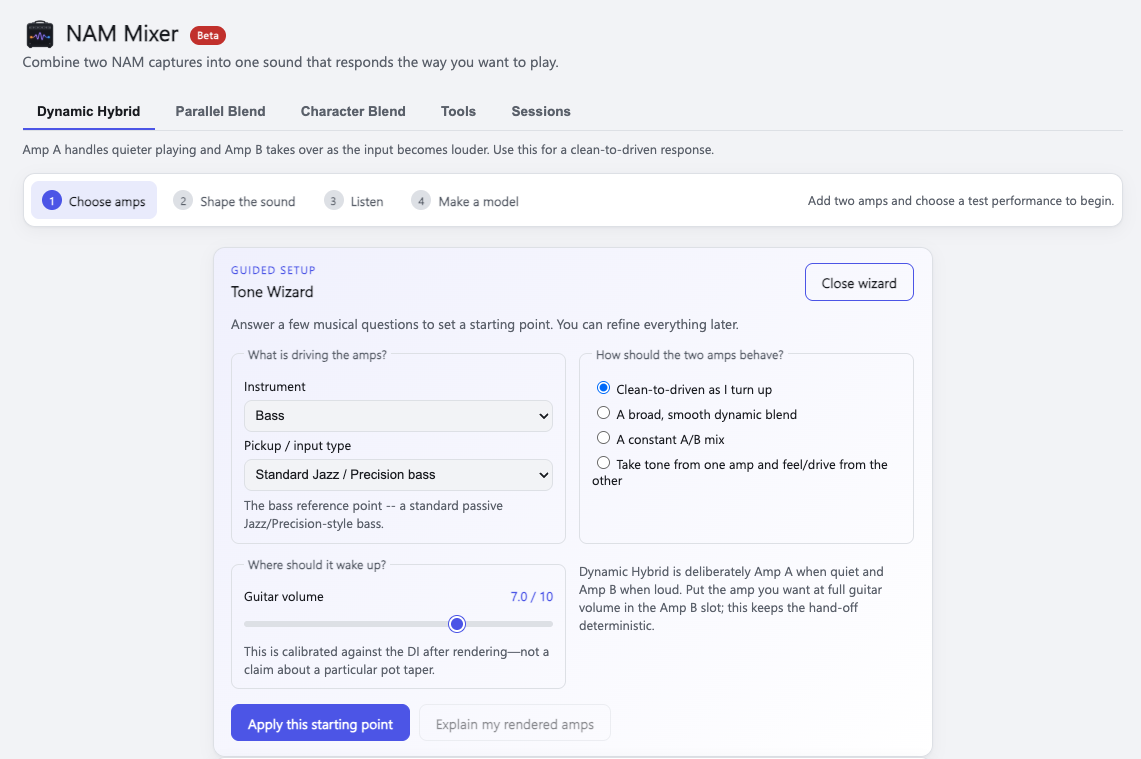
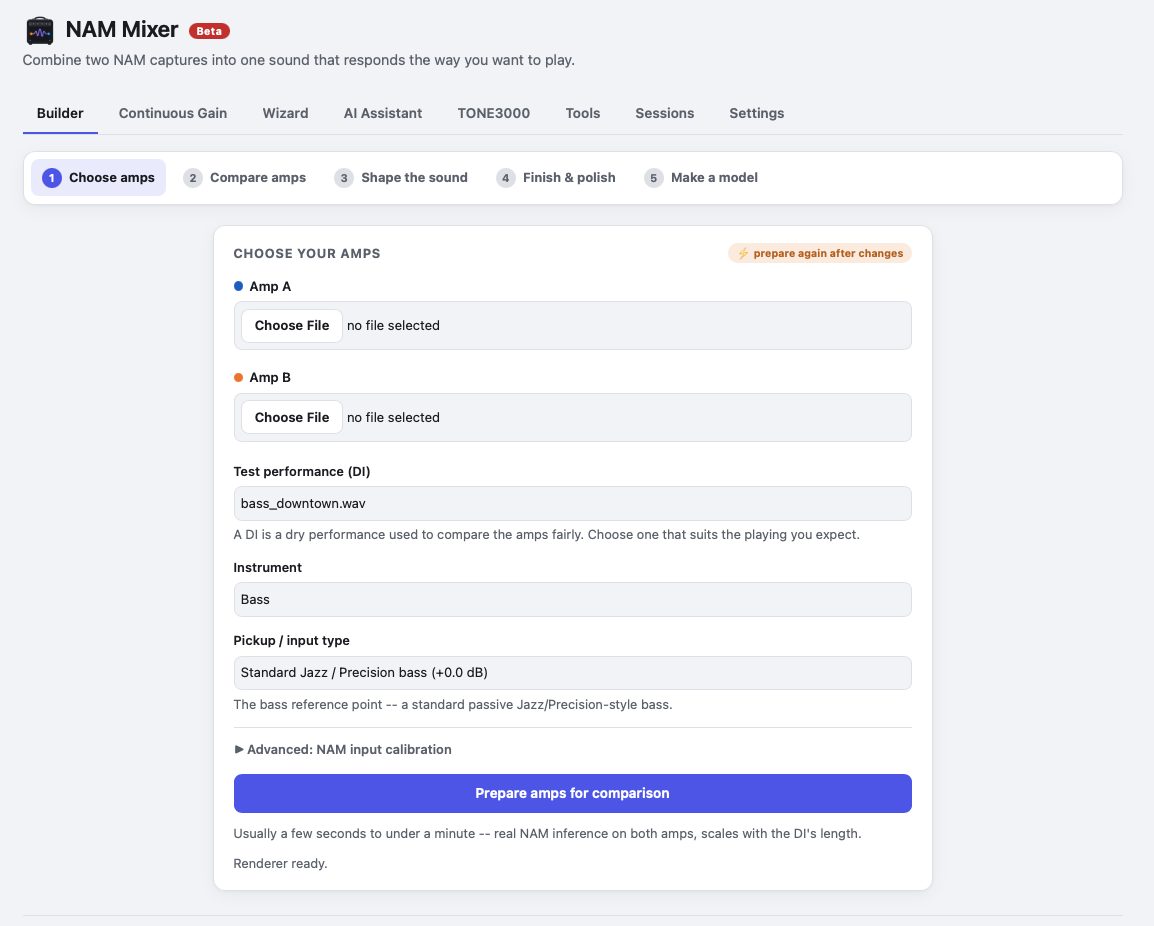
Builder modes: plain language first, technical detail under "Advanced"
Reviewed Dynamic Hybrid, Always mixed and Combined character end to end with
a real rendered pair.

- Hidden where they do nothing: the "Keep the level steady" card in
  Combined character (that mode ignores level match and trim), and the live
  mix button outside Always mixed. "Live blend stopped" messages only appear
  when a live mix was playing or loading.
- Plain readouts: "Amp B is turned down 9.6 dB to match Amp A" instead of
  auto/effective trim; the crossover knob explained as softest-to-hardest
  playing (dBFS in brackets as Advanced); "Drive: moves from X% to Y% Amp B
  as you play harder" instead of "donor trajectory"; "Both amps can be heard
  in this mix".
- Quiet-playing check leads with a verdict ("Quiet playing works" / "The
  sound drops out when you play softly…"); the level table moves under
  Advanced: measurements.
- Labelled Advanced sections: timing between the amps (opens itself when a
  correction is offered or a saved one needs explaining), fine-tuning Amp B's
  level, changing the drive as you play harder (switch first, then soft /
  medium / hard), training input (opens itself if the input is missing),
  and the Parallel technical evidence.
- Make a model: "Make your <mode> model"; the non-existent "High definition"
  preset is now "Maximum detail".
- The player's heading no longer repeats.
- Fix during review: applyModeVisibility runs at startup before
  liveBlendButton is declared; it now looks the button up by id, and a test
[…]

diff --git a/templates/index.html b/templates/index.html
@@ -422,16 +422,19 @@
           <input type="range" id="crossover-slider" min="-40" max="0" step="0.5" value="-22" class="slider slider-crossover">
           <div id="suggested-crossover-note" class="info"></div>
         </details>
-        <div class="timing-readout" aria-live="polite" hidden>
-          <div class="timing-readout-summary"></div>
-          <div class="timing-readout-note" hidden></div>
-          <div class="preset-row timing-choice" role="group" aria-label="Amp B timing" hidden>
-            <button type="button" class="preset-btn" data-timing="original" aria-pressed="true">Original</button>
-            <button type="button" class="preset-btn" data-timing="corrected" aria-pressed="false">Corrected</button>
+        <details class="advanced timing-advanced">
+          <summary>Advanced: timing between the amps</summary>
+          <div class="timing-readout" aria-live="polite" hidden>
+            <div class="timing-readout-summary"></div>
+            <div class="timing-readout-note" hidden></div>
+            <div class="preset-row timing-choice" role="group" aria-label="Amp B timing" hidden>
+              <button type="button" class="preset-btn" data-timing="original" aria-pressed="true">Original</button>
+              <button type="button" class="preset-btn" data-timing="corrected" aria-pressed="false">Corrected</button>
+            </div>
+            <div class="timing-choice-hint" hidden></div>
+            <details class="advanced timing-readout-details"><summary>Measurements</summary><div class="info timing-readout-body"></div></details>
           </div>
-          <div class="timing-choice-hint" hidden></div>
-          <details class="advanced timing-readout-details"><summary>Timing evidence</summary><div class="info timing-readout-body"></div></details>
-        </div>
+        </details>
       </section>
 
       <section class="card workflow-stage workflow-shape" id="blend-panel-mix" data-mode-panel="blend" hidden>
@@ -496,7 +499,7 @@
           </div>
 
           <details class="advanced parallel-evidence">
-            <summary>Technical evidence</summary>
+            <summary>Advanced: technical evidence</summary>
             <div id="parallel-compatibility-details" class="info"></div>
             <div class="parallel-fixed-latency-label">Fixed latency</div>
             <div class="timing-readout" aria-live="polite" hidden>
@@ -523,11 +526,11 @@
         <div class="slider-row"><label for="drive-slider">Drive: Amp A / Amp B</label><span id="drive-value" class="value-chip">50% B</span></div>
         <input type="range" id="drive-slider" min="0" max="100" step="1" value="50" class="slider slider-mix">
         <div class="hint">For a clear result, favour one amp for each control. At 50% Drive, Amp B supplies the driven response.</div>
-        <details class="advanced"><summary>Advanced: drive morph by input level</summary>
-          <div class="slider-row"><label for="drive-low-slider">Low input</label><span id="drive-low-value" class="value-chip">20% B</span></div><input type="range" id="drive-low-slider" min="0" max="100" step="1" value="20" class="slider slider-mix">
-          <div class="slider-row"><label for="drive-mid-slider">Mid input</label><span id="drive-mid-value" class="value-chip">50% B</span></div><input type="range" id="drive-mid-slider" min="0" max="100" step="1" value="50" class="slider slider-mix">
-          <div class="slider-row"><label for="drive-high-slider">High input</label><span id="drive-high-value" class="value-chip">80% B</span></div><input type="range" id="drive-high-slider" min="0" max="100" step="1" value="80" class="slider slider-mix">
-          <label class="checkbox-row"><input type="checkbox" id="drive-morph-enabled"> Drive morph by input level</label>
+        <details class="advanced"><summary>Advanced: change the drive as you play harder</summary>
+          <label class="checkbox-row"><input type="checkbox" id="drive-morph-enabled"> Use different drive amounts for soft, medium and hard playing</label>
+          <div class="slider-row"><label for="drive-low-slider">Soft playing</label><span id="drive-low-value" class="value-chip">20% B</span></div><input type="range" id="drive-low-slider" min="0" max="100" step="1" value="20" class="slider slider-mix">
+          <div class="slider-row"><label for="drive-mid-slider">Medium playing</label><span id="drive-mid-value" class="value-chip">50% B</span></div><input type="range" id="drive-mid-slider" min="0" max="100" step="1" value="50" class="slider slider-mix">
+          <div class="slider-row"><label for="drive-high-slider">Hard playing</label><span id="drive-high-value" class="value-chip">80% B</span></div><input type="range" id="drive-high-slider" min="0" max="100" step="1" value="80" class="slider slider-mix">
         </details>
         <div id="character-readout" class="trim-readout" aria-live="polite">Tone, feel, and drive analyses run from the rendered pair.</div>
 
@@ -538,7 +541,7 @@
         <div id="character-low-level-result" class="generate-result" hidden aria-live="polite"></div>
       </section>
 
-      <section class="card workflow-stage workflow-shape">
+      <section class="card workflow-stage workflow-shape" id="level-match-card">
         <h2>Keep the level steady <span class="cost-badge cost-badge-instant" title="Uses the prepared amps; no new NAM rendering">✓ instant</span></h2>
 
         <label class="checkbox-row">
@@ -546,14 +549,17 @@
           <span id="auto-level-match-label">Keep Amp B as loud as Amp A at the changeover</span>
         </label>
 
-        <div class="slider-row">
-          <label for="amp-b-trim">Amp B gain trim</label>
-          <span id="amp-b-trim-value" class="value-chip">+0.0 dB</span>
-        </div>
-        <input type="range" id="amp-b-trim" min="-24" max="24" step="0.1" value="0" class="slider slider-trim">
-        <div class="info">Added on top of the auto match -- 0&nbsp;dB means use the auto match as-is.</div>
-
         <div id="trim-readout" class="trim-readout" aria-live="polite"></div>
+
+        <details class="advanced">
+          <summary>Advanced: fine-tune Amp B's level</summary>
+          <div class="slider-row">
+            <label for="amp-b-trim">Extra Amp B level</label>
+            <span id="amp-b-trim-value" class="value-chip">+0.0 dB</span>
+          </div>
+          <input type="range" id="amp-b-trim" min="-24" max="24" step="0.1" value="0" class="slider slider-trim">
+          <div class="info">Added on top of the automatic match. 0&nbsp;dB keeps the automatic match as it is.</div>
+        </details>
       </section>
 
     </aside>
@@ -563,7 +569,7 @@
       <div class="group-label workflow-stage workflow-compare">Compare your amp choices</div>
 
       <section class="card audition-card workflow-stage workflow-compare workflow-shape">
-        <div class="audition-heading"><div><div class="eyebrow compare-only">Start here</div><div class="eyebrow shape-only">Compare the sound</div><h2><span class="compare-only">Hear your two amps</span><span class="shape-only">Compare the sound</span></h2></div><span id="audition-mode" class="audition-mode">Dynamic Hybrid</span></div>
+        <div class="audition-heading"><div><div class="eyebrow compare-only">Start here</div><h2><span class="compare-only">Hear your two amps</span><span class="shape-only">Compare the sound</span></h2></div><span id="audition-mode" class="audition-mode">Dynamic Hybrid</span></div>
         <p class="audition-intro compare-only">Listen to each amp on the same performance before deciding how they should combine.</p>
         <p id="audition-intro-shape" class="audition-intro shape-only">Adjust the controls below, then compare Amp A, your result, and Amp B at the same level.</p>
         <div class="preview-row">
@@ -694,16 +700,19 @@
       <div class="group-label workflow-stage workflow-create">Create a training target</div>
 
       <section class="card workflow-stage workflow-create">
-        <h2><span id="create-a2-title">Make a Hybrid A2</span></h2>
+        <h2><span id="create-a2-title">Make your Dynamic Hybrid model</span></h2>
         <div class="info" id="create-a2-description">
           Turn the sound you chose into training audio for a single NAM model.
         </div>
 
-        <label class="field-label" for="training-input-file">Official NAM training input (48&nbsp;kHz mono WAV)</label>
-        <div id="training-input-default-note" class="info" hidden>The official NAM v3.0.0 training input is bundled with this app and already loaded below -- you don't need to upload anything to continue.</div>
-        <input type="file" id="training-input-file" accept=".wav" class="file-input">
         <div id="training-input-status" class="info" aria-live="polite">Checking...</div>
-        <div class="warning-box">Replacing it with your own reamp/training sweep is only usable if it is byte-identical to the official NAM v3.0.0 input file -- any other file (including a similar-looking custom sweep) will be rejected, since the crossover timing and A2 receptive-field checks in this pipeline are only validated against that exact excitation signal.</div>
+        <details class="advanced" id="training-input-advanced">
+          <summary>Advanced: training input</summary>
+          <div id="training-input-default-note" class="info" hidden>The official NAM v3.0.0 training input is bundled with this app and already loaded. You don't need to upload anything.</div>
+          <label class="field-label" for="training-input-file">Official NAM training input (48&nbsp;kHz mono WAV)</label>
+          <input type="file" id="training-input-file" accept=".wav" class="file-input">
+          <div class="warning-box">Only an exact copy of the official NAM v3.0.0 input file is accepted. Any other file, even a similar-looking sweep, is rejected, because the timing and receptive-field checks are validated against that exact signal.</div>
+        </details>
 
         <label class="field-label" for="model-name">Model name</label>
         <input type="text" id="model-name" class="file-input" maxlength="100" placeholder="e.g. Mesa Mark V Clean + JCM800 Crunch" autocomplete="off">

diff --git a/static/app.js b/static/app.js
@@ -248,15 +248,31 @@ const BLEND_A2_DESCRIPTION =
   "Your pickup choice shapes preview only; it is not baked into the training input.";
 const CHARACTER_A2_DESCRIPTION =
   "Uses the current tone, feel, and drive choices to make a training target from the official NAM input. " +
-  "Character Blend usually benefits from High definition training.";
+  "Character Blend usually benefits from Maximum detail training.";
+
+// Plain-language summary of the Amp B level change (the dB breakdown lives under Advanced).
+function trimReadoutText(autoDb, effectiveDb) {
+  const auto = Number(autoDb) || 0;
+  const effective = Number(effectiveDb) || 0;
+  const manual = effective - auto;
+  const direction = Math.abs(effective) < 0.05 ? "Amp B's level is unchanged"
+    : `Amp B is turned ${effective < 0 ? "down" : "up"} ${Math.abs(effective).toFixed(1)} dB`;
+  if (Math.abs(manual) < 0.05) return `${direction} to match Amp A.`;
+  return `${direction} (automatic ${fmtSigned(auto)} dB, plus your ${fmtSigned(manual)} dB).`;
+}
 
 function applyModeVisibility() {
   modePanels.forEach((el) => {
     el.hidden = el.dataset.modePanel !== currentMode;
   });
+  // Character Blend has no level match or Amp B trim (its donor path is level-matched internally).
+  document.getElementById("level-match-card").hidden = currentMode === "character";
+  // Live mix adjustment only exists for Always mixed. (By id: this also runs at startup, before
+  // liveBlendButton's const is declared further down.)
+  document.getElementById("btn-live-blend").hidden = currentMode !== "blend";
   btnPreviewMix.textContent = currentMode === "blend" ? "Parallel mix" : currentMode === "character" ? "Character" : "Hybrid";
   autoLevelMatchLabel.textContent = currentMode === "blend" ? BLEND_LEVEL_MATCH_LABEL : HYBRID_LEVEL_MATCH_LABEL;
-  createA2Title.textContent = currentMode === "blend" ? "Make a Blend A2" : currentMode === "character" ? "Make a Character A2" : "Make a Hybrid A2";
+  createA2Title.textContent = currentMode === "blend" ? "Make your Always mixed model" : currentMode === "character" ? "Make your Combined character model" : "Make your Dynamic Hybrid model";
   createA2Description.textContent = currentMode === "blend" ? BLEND_A2_DESCRIPTION : currentMode === "character" ? CHARACTER_A2_DESCRIPTION : HYBRID_A2_DESCRIPTION;
   const auditionMode = document.getElementById("audition-mode");
   auditionMode.textContent = currentMode === "blend" ? "Always mixed" : currentMode === "character" ? "Combine tone and feel" : "Changes as you play harder";
@@ -716,6 +732,9 @@ function renderTimingReadout(render) {
     el.dataset.status = timingChoice.available ? "fixed_offset" : diagnostic.status;
     el.querySelector(".timing-readout-summary").textContent = timingSummary(render);
     el.querySelector(".timing-choice").hidden = !timingChoice.available;
+    if (timingChoice.available || note) {
+      for (let d = el.closest?.("details"); d; d = d.parentElement?.closest("details")) d.open = true;
+    }
     const hintEl = el.querySelector(".timing-choice-hint");
     hintEl.hidden = !timingChoice.available;
     hintEl.textContent = timingChoice.available ? timingChoiceHint(timingChoice.offsetSamples) : "";
@@ -966,8 +985,8 @@ function updateCrossoverKnobCalibration(blendEnvelopePercentiles) {
   }
   crossoverKnobCalibration = { minDb: p10, maxDb: p90, calibrated: true };
   crossoverKnobNote.textContent =
-    `Calibrated from this performance: 0 is about ${p10.toFixed(1)} dBFS (quiet), ` +
-    `10 is about ${p90.toFixed(1)} dBFS (loud). This is a useful playing guide, not a simulation of a particular guitar's volume pot.`;
+    "0 is the softest playing in this test performance and 10 the hardest. " +
+    `It's a playing guide, not a guitar volume knob. (Advanced: ${p10.toFixed(1)} to ${p90.toFixed(1)} dBFS.)`;
   syncCrossoverKnobFromDb();
 }
 
@@ -1993,6 +2012,7 @@ function scheduleAuditionRefresh(source = lastPreviewSource) {
 const liveAudition = {
   active: false,
   requestId: 0,
+  loadingRequest: null,   // requestId of stems still loading, so invalidation can say it stopped them
   context: null,
   sourceA: null,
   sourceB: null,
@@ -2061,7 +2081,7 @@ const liveAudition = {
 
 function updateLiveAuditionButton() {
   if (liveAudition.active) liveBlendButton.textContent = "Stop live mix adjustment";
-  else liveBlendButton.textContent = currentMode === "blend" ? "Adjust the mix while listening" : "Live mix: Always-on mix only";
+  else liveBlendButton.textContent = "Adjust the mix while listening";   // only shown in Always mixed
 }
 
 function splitStereoBuffer(context, decoded, channel) {
@@ -2071,8 +2091,10 @@ function splitStereoBuffer(context, decoded, channel) {
 }
 
 function invalidateLiveAudition(message) {
+  // Only report a stop when a live mix was playing or loading; otherwise the message is noise.
+  const wasBusy = liveAudition.active || liveAudition.loadingRequest === liveAudition.requestId;
   liveAudition.stop();
-  liveBlendStatus.textContent = message;
+  if (wasBusy) liveBlendStatus.textContent = message;
 }
 
 async function startLiveBlend() {
@@ -2088,6 +2110,7 @@ async function startLiveBlend() {
   }
   liveBlendButton.disabled = true;
   const requestId = ++liveAudition.requestId;
+  liveAudition.loadingRequest = requestId;
   liveBlendStatus.textContent = "Loading the prepared amps...";
   try {
     const resp = await fetch("/api/live_blend_stems", {
@@ -2143,6 +2166,7 @@ async function startLiveBlend() {
     liveAudition.stop();
     liveBlendStatus.textContent = "Live blend unavailable: " + err.message;
   } finally {
+    if (liveAudition.loadingRequest === requestId) liveAudition.loadingRequest = null;
     if (requestId === liveAudition.requestId) liveBlendButton.disabled = !havePair;
   }
 }
@@ -2184,12 +2208,14 @@ function renderLowLevelResponseHtml(check) {
     .map((lv, i) => `<tr><td>${fmtSigned(lv)} dB</td><td>${check.output_rms_dbfs[i].toFixed(1)} dBFS</td></tr>`)
     .join("");
   const verdict = check.ok
-    ? `<div class="ok-line">&#10003; continuous low-level response, no dead zone</div>`
-    : `<div class="warning-box">&#10007; low-level collapse detected (max step error ${check.max_step_error_db.toFixed(1)} dB). Do not train this design: it would bake silence at quiet playing into the model. Change the Drive settings or the amps and check again.</div>`;
+    ? `<div class="ok-line">&#10003; Quiet playing works: the sound stays responsive when you play softly.</div>`
+    : `<div class="warning-box">&#10007; The sound drops out when you play softly. Don't train this design yet: the model would learn that silence. Change the Drive settings or the amps, then check again.</div>`;
   return `
-    <div><strong>LOW-LEVEL RESPONSE</strong></div>
-    <table class="coverage-table"><tbody>${rows}</tbody></table>
     ${verdict}
+    <details class="advanced"><summary>Advanced: measurements</summary>
+      <table class="coverage-table"><thead><tr><th>Input level</th><th>Output level</th></tr></thead><tbody>${rows}</tbody></table>
+      <div class="info">Largest jump between steps: ${check.max_step_error_db.toFixed(1)} dB.</div>
+    </details>
   `;
 }
 
@@ -2289,10 +2315,13 @@ async function updateTrimReadout() {
       return;
     }
     if (data.mode === "character") {
-      document.getElementById("character-readout").textContent =
-        `Drive donor trajectory: ${Math.round(data.drive_weight_b_min * 100)}–${Math.round(data.drive_weight_b_max * 100)}% Amp B.`;
+      const lo = Math.round(data.drive_weight_b_min * 100);
+      const hi = Math.round(data.drive_weight_b_max * 100);
+      document.getElementById("character-readout").textContent = lo === hi
+        ? `Drive: ${lo}% from Amp B.`
+        : `Drive: moves from ${lo}% to ${hi}% Amp B as you play harder.`;
     } else {
-      trimReadout.textContent = `Auto match ${fmtSigned(data.auto_trim_db)} dB  ·  effective trim ${fmtSigned(data.effective_b_trim_db)} dB`;
+      trimReadout.textContent = trimReadoutText(data.auto_trim_db, data.effective_b_trim_db);
       if (data.mode === "blend") renderParallelCompatibility(data.parallel_compatibility);
     }
   } catch (err) {
@@ -2759,8 +2788,7 @@ async function preview(requestedSource, { preservePosition = false, quiet = fals
     if (source === "hybrid" || source === "blend") {
       const auto = resp.headers.get("X-Auto-Trim-Db");
       const effective = resp.headers.get("X-Effective-Trim-Db");
-      trimReadout.textContent =
-        `Auto match ${fmtSigned(auto)} dB  ·  effective trim ${fmtSigned(effective)} dB`;
+      trimReadout.textContent = trimReadoutText(auto, effective);
     }
     updateOutputGainReadout(resp.headers);
     const blob = await resp.blob();
@@ -2812,8 +2840,10 @@ async function refreshTrainingInputStatus() {
     // bundled file silently in place with no indication it's the default.
     if (trainingInputDefaultNote) trainingInputDefaultNote.hidden = !data.ready;
     trainingInputStatus.textContent = data.ready
-      ? `Ready: valid training input loaded (${data.sample_rate / 1000} kHz)`
-      : "Add the official NAM training input to continue.";
+      ? `Training input ready (official NAM input, ${data.sample_rate / 1000} kHz).`
+      : "Add the official NAM training input to continue (see Advanced: training input).";
+    const trainingInputAdvanced = document.getElementById("training-input-advanced");
+    if (trainingInputAdvanced && !data.ready) trainingInputAdvanced.open = true;
   } catch (err) {
     trainingInputStatus.textContent = "Could not check training input status: " + err;
     trainingInputReady = false;

diff --git a/hybrid/core/parallel_phase.py b/hybrid/core/parallel_phase.py
@@ -109,7 +109,7 @@ def _presence(a: np.ndarray, b: np.ndarray) -> tuple[str, str, float | None, flo
         return "amp_b_obscured", f"Amp B is {abs(delta):.1f} dB below Amp A and may be hard to hear.", a_db, b_db
     if delta < -PRESENCE_LIMIT_DB:
         return "amp_a_obscured", f"Amp A is {abs(delta):.1f} dB below Amp B and may be hard to hear.", a_db, b_db
-    return "both_present", f"Both amps have material level in this mix ({abs(delta):.1f} dB apart).", a_db, b_db
+    return "both_present", f"Both amps can be heard in this mix ({abs(delta):.1f} dB apart).", a_db, b_db
 
 
 def analyse_parallel_compatibility(

diff --git a/README.md b/README.md
@@ -11,7 +11,7 @@ original captures aren't needed once it's trained.
 **Status: Beta.** It runs on your own computer. Your captures and audio stay there unless you
 choose to train on your own free Kaggle GPU account.
 
-![NAM Mixer's Builder, with the guided Tone Wizard open](assets/screenshot.png)
+![NAM Mixer's Builder: choose two amps, then compare, shape and make a model](assets/screenshot.png)
 
 **[⬇ Download](#download)** · [What you can make](#what-you-can-make) ·
 [How it works](#how-it-works) · [Good to know](#good-to-know) ·
